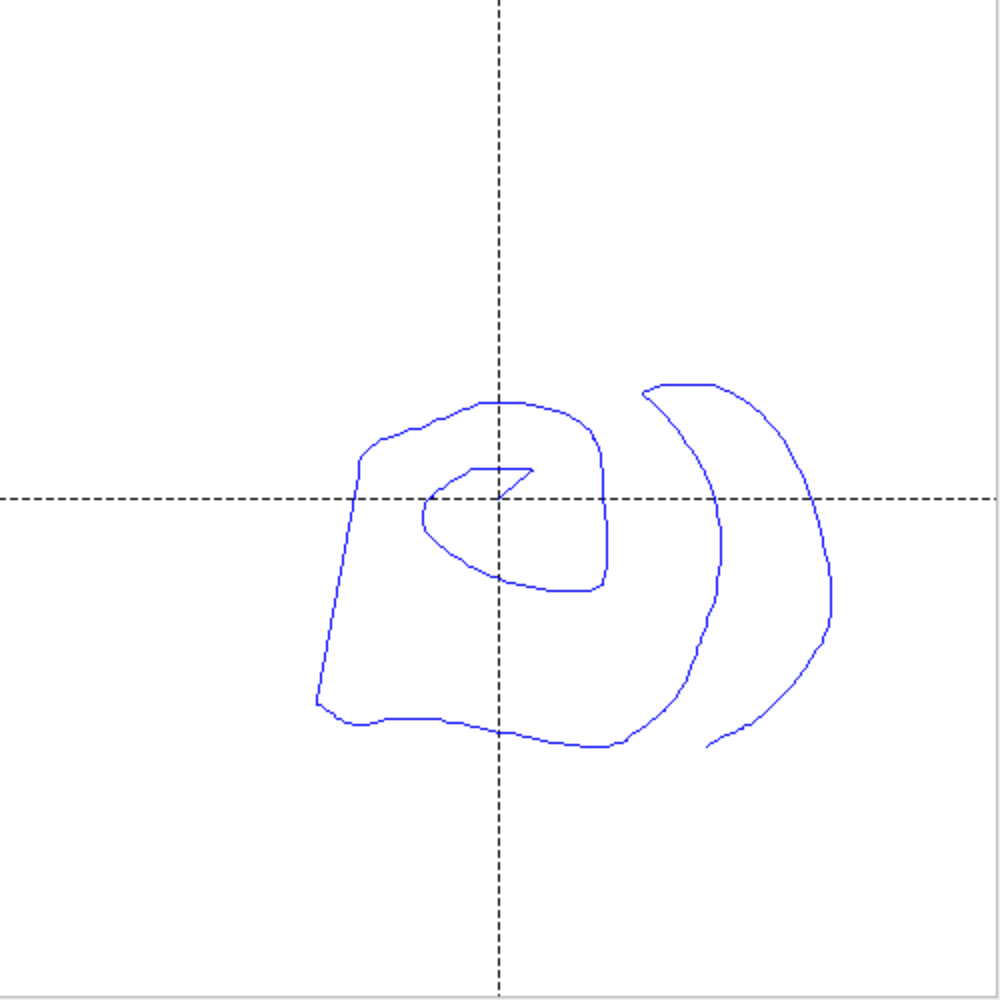
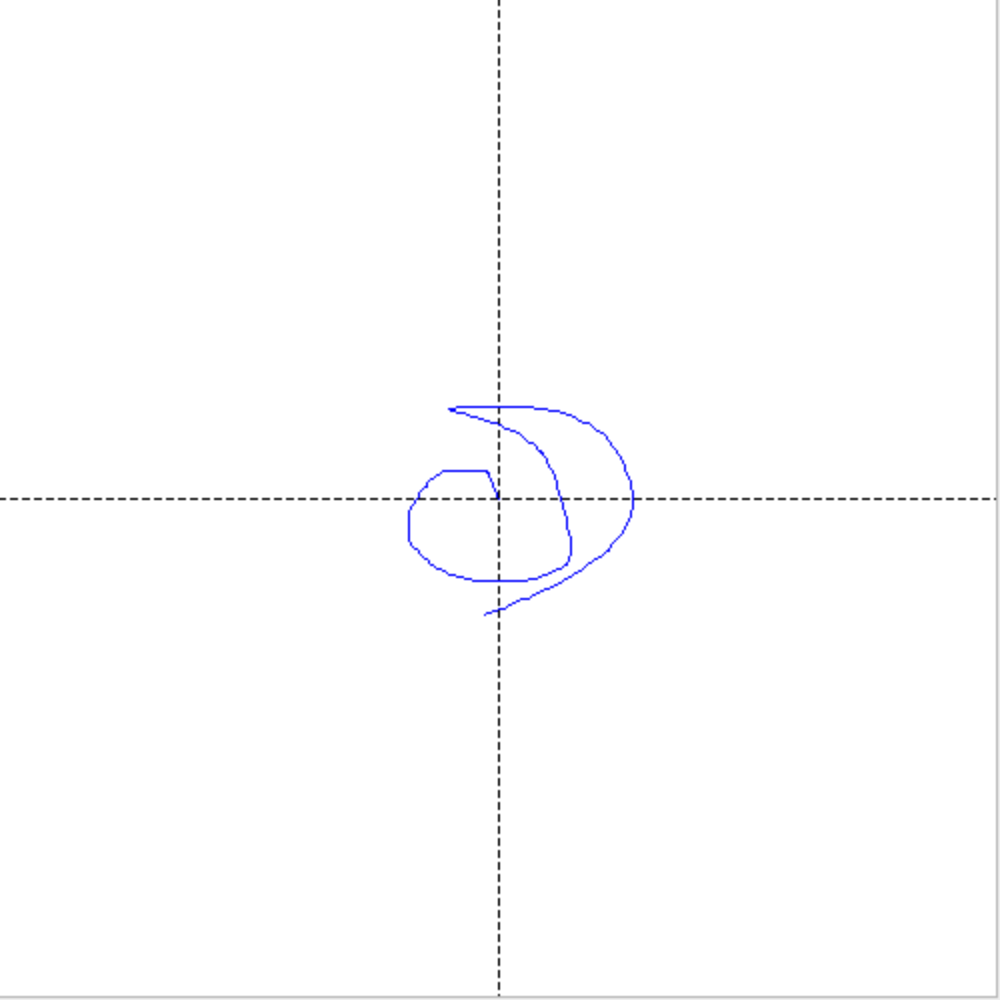
Add files via upload

diff --git a/src/robot_control/scripts/mpc_tb3.py b/src/robot_control/scripts/mpc_tb3.py
@@ -16,7 +16,7 @@ observation = np.array([0.0, 0.0, 0.0], float)  # x, y, yaw angle
 path = []
 
 # TurtleBot3 parameters
-MAX_LINEAR_VEL = 0.22  # [m/s] TurtleBot3 Burger max linear velocity
+MAX_LINEAR_VEL = 55.0 / 3.6  # [m/s] TurtleBot3 Burger max linear velocity
 MAX_ANGULAR_VEL = 2.84  # [rad/s] TurtleBot3 Burger max angular velocity
 MAX_LINEAR_ACC = 0.5   # [m/s^2] maximum linear acceleration
 MAX_ANGULAR_ACC = 3.0  # [rad/s^2] maximum angular acceleration
@@ -28,9 +28,9 @@ T = 10  # prediction horizon length
 DT = 0.1  # [s] time step
 
 # Cost matrices
-R = np.diag([0.01, 0.5])  # input cost matrix [a, omega] - higher omega cost prevents spinning
+R = np.diag([0.5, 0.01])  # input cost matrix [a, omega] - higher omega cost prevents spinning
 Rd = np.diag([0.01, 1.0])  # input difference cost matrix - smooth angular changes
-Q = np.diag([1.0, 1.0, 0.5, 0.3])  # state cost matrix [x, y, v, yaw] - lower yaw weight
+Q = np.diag([3.0, 3.0, 1.5, 0.3])  # state cost matrix [x, y, v, yaw] - lower yaw weight
 Qf = Q  # terminal state cost matrix
 
 # Control parameters

diff --git a/src/robot_control/scripts/plot_path_error.py b/src/robot_control/scripts/plot_path_error.py
@@ -135,7 +135,9 @@ def main(args=None):
         blit=False
     )
 
-    plt.tight_layout()
+    # Adjust layout to prevent title overlap
+    # rect=[left, bottom, right, top] in figure coordinates
+    plt.tight_layout(rect=[0, 0, 1, 0.96])
 
     # Show plot in non-blocking mode
     plt.ion()
